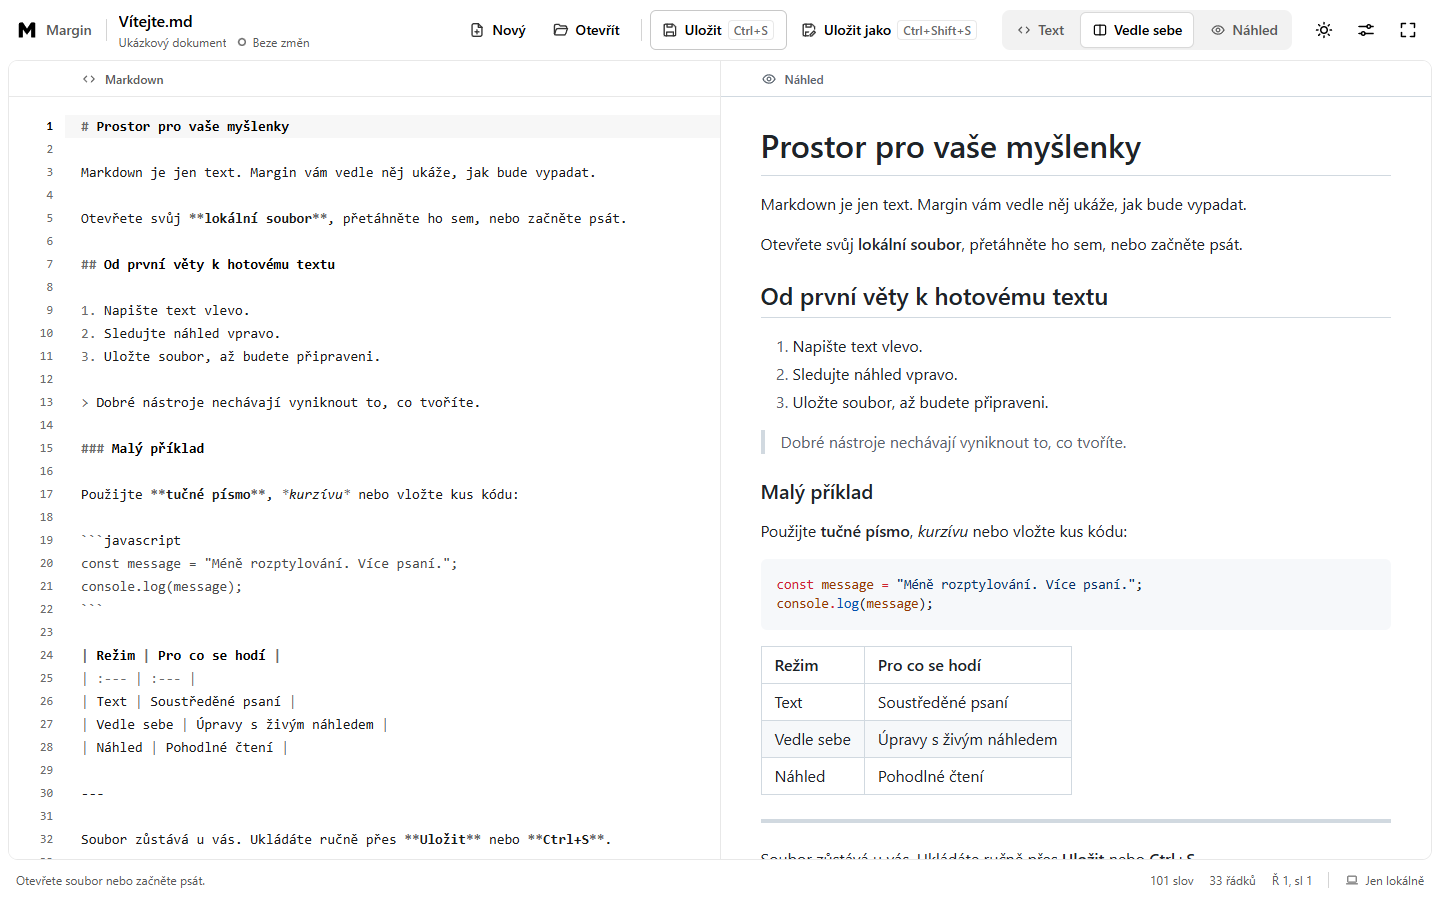
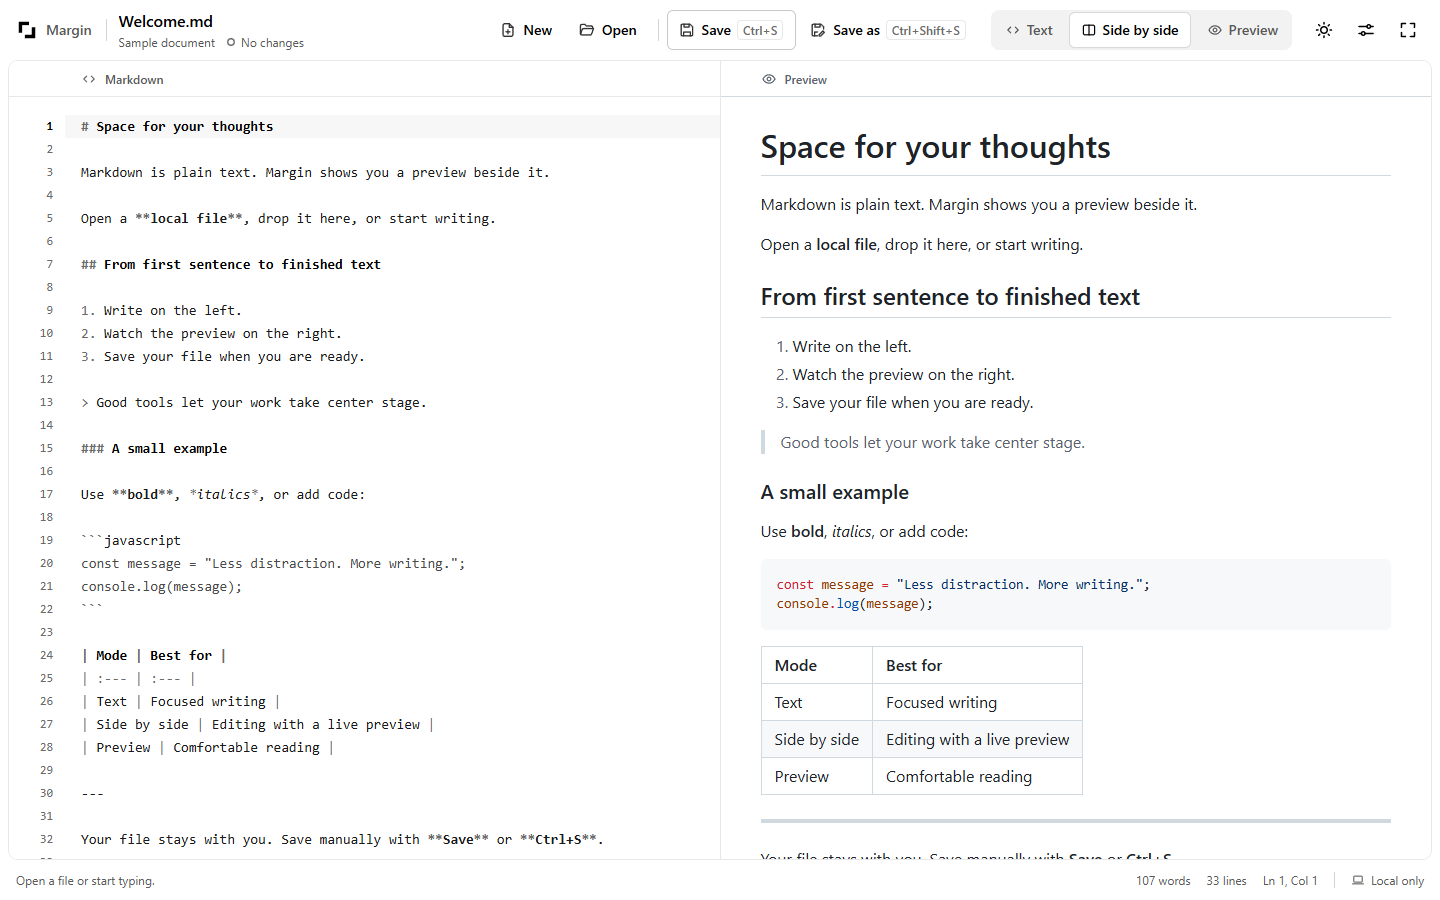
fix: speed up editor startup and preview updates

diff --git a/tests/preview.browser.test.ts b/tests/preview.browser.test.ts
@@ -1,0 +1,58 @@
+import assert from 'node:assert/strict';
+import test from 'node:test';
+import { resolve } from 'node:path';
+import { chromium } from 'playwright';
+
+test('preview preserves unchanged blocks and refreshes document-wide references', { timeout: 60000 }, async () => {
+  const extension = resolve('dist');
+  const context = await chromium.launchPersistentContext('', {
+    channel: 'chromium', headless: true, locale: 'en-US',
+    args: [`--disable-extensions-except=${extension}`, `--load-extension=${extension}`],
+    viewport: { width: 1440, height: 900 },
+  });
+  try {
+    const worker = context.serviceWorkers()[0] ?? await context.waitForEvent('serviceworker');
+    const page = await context.newPage();
+    const errors: string[] = [];
+    page.on('pageerror', (error) => errors.push(error.message));
+    page.on('console', (message) => { if (message.type() === 'error') errors.push(message.text()); });
+    await page.goto(`chrome-extension://${new URL(worker.url()).host}/index.html`);
+    const source = '# Stable\n\nChange me\n\n[Reference][target]\n\n'
+      + '> Quote\n>\n> - [ ] Nested task\n\n'
+      + '| A | B |\n| :- | -: |\n| 1 | 2 |\n\n'
+      + '```js\nconst value = 1;\n```\n\n[target]: https://example.com/first\n';
+    const editor = page.locator('.cm-content');
+    const preview = page.locator('#preview');
+    await editor.fill(source);
+    await page.waitForFunction(() => document.querySelector('#preview h1')?.textContent === 'Stable');
+    const stable = await preview.locator(':scope > h1, :scope > blockquote, :scope > table, :scope > pre').elementHandles();
+    assert.equal(stable.length, 4);
+    assert.equal(await preview.locator('input:disabled').count(), 1);
+    assert.equal(await preview.locator('td.align-right').innerText(), '2');
+    await editor.fill(source.replace('Change me', 'Changed paragraph'));
+    await page.waitForFunction(() => document.querySelector('#preview > p')?.textContent === 'Changed paragraph');
+    for (const node of stable) assert.equal(await node.evaluate((node) => node.parentElement?.id), 'preview');
+    assert.equal(await preview.locator('pre').getAttribute('tabindex'), '0');
+    assert.ok(await preview.locator('pre span[class]').count() > 0);
+
+    await editor.fill(source.replace('/first', '/second'));
+    await page.waitForFunction(() => document.querySelector('#preview a')?.getAttribute('href') === 'https://example.com/second');
+    for (const node of stable) assert.equal(await node.evaluate((node) => node.parentElement?.id), 'preview');
+
+    await editor.fill('Before\n\n' + source + '\n---\n\nAfter');
+    await page.waitForFunction(() => document.querySelector('#preview')?.lastElementChild?.textContent === 'After');
+    assert.deepEqual(await preview.locator(':scope > *').evaluateAll((nodes) => nodes.map((node) => node.tagName)),
+      ['P', 'H1', 'P', 'P', 'BLOCKQUOTE', 'TABLE', 'PRE', 'HR', 'P']);
+    await editor.fill('## Replacement\n\n1. One\n2. Two\n\n![offline](https://example.com/a.png)');
+    await page.waitForFunction(() => document.querySelector('#preview h2')?.textContent === 'Replacement');
+    assert.deepEqual(await preview.locator(':scope > *').evaluateAll((nodes) => nodes.map((node) => node.tagName)), ['H2', 'OL', 'P']);
+    assert.equal(await preview.locator('img, script, iframe').count(), 0);
+    await editor.fill('');
+    await page.waitForFunction(() => document.querySelector('#preview')?.childNodes.length === 0);
+    await editor.fill('# Recovered');
+    await page.waitForFunction(() => document.querySelector('#preview h1')?.textContent === 'Recovered');
+    assert.deepEqual(errors, []);
+  } finally {
+    await context.close();
+  }
+});

diff --git a/src/render.ts b/src/render.ts
@@ -4,7 +4,7 @@ import { classHighlighter, highlightCode } from '@lezer/highlight';
 import { parser as javascript } from '@lezer/javascript';
 import { parser as css } from '@lezer/css';
 import { parser as html } from '@lezer/html';
-import { t } from './i18n';
+import { getLocale, t, type Locale } from './i18n';
 
 const markdown = new MarkdownIt({ html: false, linkify: false, typographer: false });
 // shortcut: color at most 20,000 characters per render; use a worker for larger highlighted documents.
@@ -20,6 +20,9 @@ const codeParsers: ReadonlyMap<string, typeof javascript> = new Map([
 ]);
 
 interface RenderContext extends Env { highlightRemaining: number }
+// Cache only the displayed document, capped at 32 million HTML characters and released with the page.
+const MAX_CACHED_HTML_CHARS = 32 * 1024 * 1024;
+let previous: { target: HTMLElement; locale: Locale; blocks: string[] } | undefined;
 
 const plainFence = markdown.renderer.rules.fence!;
 markdown.renderer.rules.fence = (tokens, index, options, context, renderer) => {
@@ -69,9 +72,28 @@ for (const type of ['th_open', 'td_open']) {
   };
 }
 
-export function renderMarkdown(source: string): DocumentFragment {
+export function renderMarkdown(source: string, target: HTMLElement): void {
   const context: RenderContext = { highlightRemaining: MAX_HIGHLIGHT_CHARS };
-  const fragment = DOMPurify.sanitize(markdown.render(source, context), {
+  const tokens = markdown.parse(source, context);
+  const blocks: string[] = [];
+  let blockStart = 0;
+  let htmlChars = 0;
+  for (let index = 0; index < tokens.length; index++) {
+    if (tokens[index].level !== 0 || tokens[index].nesting > 0) continue;
+    const html = markdown.renderer.render(tokens.slice(blockStart, index + 1), markdown.options, context);
+    blocks.push(html);
+    htmlChars += html.length;
+    blockStart = index + 1;
+  }
+  const locale = getLocale();
+  let first = 0;
+  let oldEnd = target.children.length;
+  let newEnd = blocks.length;
+  if (previous?.target === target && previous.locale === locale && previous.blocks.length === oldEnd) {
+    while (first < oldEnd && first < newEnd && previous.blocks[first] === blocks[first]) first++;
+    while (oldEnd > first && newEnd > first && previous.blocks[oldEnd - 1] === blocks[newEnd - 1]) { oldEnd--; newEnd--; }
+  }
+  const fragment = DOMPurify.sanitize(blocks.slice(first, newEnd).join(''), {
     ALLOWED_TAGS: ['p', 'br', 'h1', 'h2', 'h3', 'h4', 'h5', 'h6', 'strong', 'em', 's',
       'a', 'code', 'pre', 'blockquote', 'ul', 'ol', 'li', 'hr', 'table', 'thead', 'tbody',
       'tr', 'th', 'td', 'span'],
@@ -94,5 +116,14 @@ export function renderMarkdown(source: string): DocumentFragment {
     text.prepend(checkbox, ' ');
   }
   for (const block of fragment.querySelectorAll<HTMLElement>('pre, table')) block.tabIndex = 0;
-  return fragment;
+  if (fragment.children.length !== newEnd - first) throw new Error('Unexpected Markdown block structure.');
+  for (const node of Array.from(fragment.childNodes)) if (node.nodeType !== Node.ELEMENT_NODE) node.remove();
+  if (oldEnd > first) {
+    const range = document.createRange();
+    range.setStartBefore(target.children[first]);
+    range.setEndAfter(target.children[oldEnd - 1]);
+    range.deleteContents();
+  }
+  target.insertBefore(fragment, target.children[first] ?? null);
+  previous = htmlChars <= MAX_CACHED_HTML_CHARS ? { target, locale, blocks } : undefined;
 }

diff --git a/tests/launcher.browser.test.ts b/tests/launcher.browser.test.ts
@@ -1,0 +1,60 @@
+import assert from 'node:assert/strict';
+import test from 'node:test';
+import { resolve } from 'node:path';
+import { readFile } from 'node:fs/promises';
+import { chromium } from 'playwright';
+
+test('launcher opens once, reuses the editor and preserves unsaved documents', { timeout: 60000 }, async () => {
+  const extension = resolve('dist');
+  const manifest = JSON.parse(await readFile(resolve(extension, 'manifest.json'), 'utf8')) as { action: { default_popup?: string } };
+  assert.equal(manifest.action.default_popup, 'launcher.html');
+  const context = await chromium.launchPersistentContext('', {
+    channel: 'chromium', headless: true, locale: 'en-US',
+    args: [`--disable-extensions-except=${extension}`, `--load-extension=${extension}`],
+  });
+  try {
+    const errors: string[] = [];
+    context.on('page', (page) => page.on('pageerror', (error) => errors.push(error.message)));
+    const worker = context.serviceWorkers()[0] ?? await context.waitForEvent('serviceworker');
+    const id = new URL(worker.url()).host;
+    const editorUrl = `chrome-extension://${id}/index.html`;
+    const firstLauncher = await context.newPage();
+    const firstOpened = context.waitForEvent('page');
+    await firstLauncher.goto(`chrome-extension://${id}/launcher.html`, { waitUntil: 'commit' }).catch((error: unknown) => {
+      if (!firstLauncher.isClosed()) throw error;
+    });
+    const existing = await firstOpened;
+    await existing.waitForURL(editorUrl);
+    await existing.locator('.cm-content').fill('# Keep my unsaved document');
+    if (!firstLauncher.isClosed()) await firstLauncher.close();
+    for (let click = 0; click < 2; click++) {
+      const launcher = await context.newPage();
+      await launcher.goto(`chrome-extension://${id}/launcher.html`, { waitUntil: 'commit' }).catch((error: unknown) => {
+        if (!launcher.isClosed()) throw error;
+      });
+      await existing.waitForFunction(async () => (await chrome.tabs.getCurrent())?.active === true, undefined, { polling: 50 });
+      assert.equal(context.pages().filter((page) => page.url() === editorUrl).length, 1);
+      assert.equal(await existing.locator('.cm-content').innerText(), '# Keep my unsaved document');
+      assert.equal(await existing.locator('#dirty-state').getAttribute('data-dirty'), 'true');
+      if (!launcher.isClosed()) await launcher.close();
+    }
+
+    const fallback = await context.newPage();
+    await fallback.addInitScript(() => {
+      chrome.runtime.getContexts = () => Promise.reject(new Error('Injected launch failure'));
+    });
+    await fallback.goto(`chrome-extension://${id}/launcher.html`);
+    const link = fallback.getByRole('link', { name: 'Margin', exact: true });
+    await fallback.waitForFunction(() => document.activeElement === document.querySelector('a'));
+    const opened = context.waitForEvent('page');
+    await link.click();
+    const editor = await opened;
+    await editor.waitForURL(editorUrl);
+    await editor.locator('#preview h1').waitFor();
+    assert.deepEqual(errors, []);
+    await existing.locator('.cm-content').press('Control+z');
+    assert.equal(await existing.locator('#dirty-state').getAttribute('data-dirty'), 'false');
+  } finally {
+    await context.close();
+  }
+});

diff --git a/launcher.html b/launcher.html
@@ -1,0 +1,22 @@
+<!doctype html>
+<html lang="en">
+  <head>
+    <meta charset="UTF-8" />
+    <meta name="color-scheme" content="light dark" />
+    <title>Margin</title>
+    <style>
+      body { margin: 0; padding: 8px; color: #202020; background: #fff; font: 14px system-ui, sans-serif; }
+      a { display: flex; align-items: center; gap: 10px; min-width: 132px; min-height: 40px; padding-inline: 12px; border-radius: 6px; color: inherit; text-decoration: none; }
+      a:hover { background: #f2f2f2; }
+      a:focus-visible { outline: 2px solid currentColor; outline-offset: -2px; }
+      @media (prefers-color-scheme: dark) {
+        body { color: #f2f2f2; background: #202020; }
+        a:hover { background: #303030; }
+      }
+    </style>
+  </head>
+  <body>
+    <a href="./index.html" target="_blank" rel="noopener"><img src="/icons/32.png" width="24" height="24" alt="" />Margin <span aria-hidden="true">↗</span></a>
+    <script type="module" src="/src/launcher.ts"></script>
+  </body>
+</html>

diff --git a/src/launcher.ts b/src/launcher.ts
@@ -1,0 +1,21 @@
+async function openEditor(): Promise<void> {
+  const url = chrome.runtime.getURL('index.html');
+  const currentWindow = await chrome.windows.getCurrent();
+  const contexts = (await chrome.runtime.getContexts({ contextTypes: ['TAB'], incognito: currentWindow.incognito }))
+    .filter((context) => context.tabId >= 0 && context.windowId >= 0 && context.documentUrl?.split(/[?#]/, 1)[0] === url);
+  const editor = contexts.find((context) => context.windowId === currentWindow.id) ?? contexts[0];
+  if (editor) {
+    await chrome.tabs.update(editor.tabId, { active: true });
+    await chrome.windows.update(editor.windowId, { focused: true });
+  } else {
+    await chrome.tabs.create({ url });
+  }
+}
+
+void openEditor().then(
+  () => window.close(),
+  (error: unknown) => {
+    console.error('Could not open Margin', error);
+    document.querySelector('a')?.focus();
+  },
+);

diff --git a/src/shell.ts b/src/shell.ts
@@ -13,7 +13,7 @@ const icons = {
 };
 
 const mark = (size: number, className: string): string =>
-  `<svg class="${className}" viewBox="0 0 32 32" width="${size}" height="${size}" aria-hidden="true"><path fill="currentColor" d="M4 27V7a2 2 0 0 1 2-2h4l6 9 6-9h4a2 2 0 0 1 2 2v20h-6V15l-6 8-6-8v12z"/></svg>`;
+  `<svg class="${className}" viewBox="0 0 32 32" width="${size}" height="${size}" aria-hidden="true"><path fill="currentColor" d="M4 4h15v5H9v11H4zM28 28H13v-5h10V12h5z"/></svg>`;
 
 export const shell = String.raw`
 <header class="toolbar" aria-label="Hlavní panel nástrojů" data-i18n-aria-label="Hlavní panel nástrojů">

diff --git a/src/background.ts b/src/background.ts
@@ -1,9 +1,5 @@
 import { getLocalMarkdownUrl } from './files';
 
-chrome.action.onClicked.addListener(() => {
-  void chrome.tabs.create({ url: chrome.runtime.getURL('index.html') });
-});
-
 chrome.runtime.onMessage.addListener((message: unknown, sender) => {
   if (message !== 'open-local-markdown' || sender.id !== chrome.runtime.id
     || sender.frameId !== 0 || sender.tab?.id === undefined || !sender.url) return;

diff --git a/src/main.ts b/src/main.ts
@@ -150,7 +150,7 @@ function updatePreview(): void {
   element('word-count').textContent = countText(words, '{count} slovo', '{count} slova', '{count} slov');
   if (mode === 'source') return;
   try {
-    preview.replaceChildren(renderMarkdown(source));
+    renderMarkdown(source, preview);
   } catch {
     say('Náhled nelze vytvořit. Text zůstává v editoru.', true);
     return;

diff --git a/vite.config.ts b/vite.config.ts
@@ -3,9 +3,11 @@ import { defineConfig } from 'vite';
 export default defineConfig({
   base: './',
   build: {
+    modulePreload: { polyfill: false },
     rollupOptions: {
       input: {
         editor: 'index.html',
+        launcher: 'launcher.html',
         background: 'src/background.ts',
         content: 'src/content.ts',
       },

diff --git a/QA.md b/QA.md
@@ -1,5 +1,36 @@
 # Validation
 
+## Pinned action startup | 1.3.1
+
+The toolbar action now runs a small launcher directly instead of dispatching its opening through the background service worker. It activates an existing editor without navigating or rebuilding its document, preferring the current window and matching its private-browsing mode. It creates a new editor only when none is open. Successful activation closes the launcher; failure keeps a native link available. No permission, keepalive, polling or document persistence was added. The worker retains the existing validated local-file message handler.
+
+`npm test` passed all 19 tests. The complete local browser command passed all four scenarios, covering editor/file-save regressions, language/preferences, the launcher and incremental preview updates. TypeScript and the production build passed; the production dependency audit reported zero vulnerabilities. The launcher scenario checks first opening, repeated reuse with one editor tab, unchanged unsaved text, undo, and the real fallback link after an injected context-lookup failure. The regular launcher document is used in this test; it does not establish native popup lifecycle or private-window behavior.
+
+Claude Opus reviewed the initial launcher and found no blocking defect. Its follow-up review was unavailable after quota exhaustion. Astra reviewed the final context-selection and success-close route and found no confirmed blocking defect; its review did not execute browser tests. The primary agent verified the browser API calls and preserved the file-safety and CSP boundaries. Chrome's [runtime API](https://developer.chrome.com/docs/extensions/reference/api/runtime#method-getContexts) provides the extension's own contexts from Chrome 116; Margin retains its Chrome 120 minimum.
+
+An isolated Chromium measurement timed real Chrome API work after launcher document initialization. First creation took 65.8 ms; reuse took 37.1, 38.1 and 35.9 ms, while the editor-tab count stayed at one. These figures exclude toolbar dispatch, popup creation and HTML loading. Earlier end-to-end native-action probes varied substantially and some timed out, so they do not support a reliable before/after latency claim. Physical Brave latency, native popup behavior and private-window behavior remain unverified.
+
+### Preview rendering and original icon
+
+Editing now preserves unchanged top-level preview blocks instead of rebuilding the entire DOM. Full-document Markdown parsing and rendering remain, preserving reference resolution and the shared highlighting budget. Only the changed range is sanitized and inserted. Previously sanitized blocks remain unchanged. The one-document in-memory HTML comparison cache is capped at 32 × 1,024 × 1,024 characters and rebuilt on language changes; it is not persisted.
+
+The new real-browser regression verifies DOM identity for unchanged headings, quotes, tables and code, changed reference definitions, insertion/deletion, an empty document and recovery. Existing tests also cover localized task labels, the aggregate code budget, blocked active content, zero automatic document HTTP(S) requests and genuine OPFS save bytes. Astra independently checked the renderer and compared 13 token-group fixtures with markdown-it's full output without finding a confirmed defect. The primary agent executed the DOM regressions.
+
+An initial paired test used real synthetic 100 KiB and 1 MiB files in isolated Chromium at 1440 × 900. Browser timings started at file-input change or typing and ended two frames after preview mutation, including the 120 ms typing debounce. The 100 KiB edit changed from 386.1 to 176.1 ms; the 1 MiB edit changed from 2,686.8 to 523.4 ms. Full 1 MiB opening remained around 2.7 seconds. These local observations do not establish a universal speedup; large single-block documents still require replacing their whole block.
+
+The user-preferred opposing corner-bracket icon replaces the M, with stronger vector geometry and new 16/32/48/128 px exports. Browser PNG decoding verified each dimension, visible pixels, transparent background pixels and transparent corners. Fresh light/dark screenshots at 1440 × 900 and 390 × 844 were inspected; all four axe checks reported zero violations and no outer horizontal overflow. The final main JavaScript is 643,316 bytes, gzip 225,684 bytes using Node defaults, close to 1.3.0's 643,285/225,681 bytes. One local load measured 362.5 ms, LCP 584 ms and CLS 0. Field INP, physical mobile devices and worst-case 5 MiB latency remain unmeasured.
+
+A second comparison loaded the extracted 1.3.0 release and final build in separate isolated Chromium sessions, with three runs for each file size. Medians are below. Host load varied substantially, so these support the reduced DOM work without establishing a guaranteed speed ratio.
+
+| Check | 1.3.0 | 1.3.1 |
+| :--- | ---: | ---: |
+| 100 KiB open and preview | 575.1 ms | 431 ms |
+| 100 KiB edit and preview | 541.5 ms | 168.3 ms |
+| 1 MiB open and preview | 3,796.9 ms | 2,852 ms |
+| 1 MiB edit and preview | 4,709.1 ms | 605.3 ms |
+
[1 lines of base64/hex data omitted]
+
 ## Language, editor profiles and icon | 1.3.0
 
 Checked on 1 November 2026 on Windows. `npm test` passed 19 tests. `npm run test:browser` passed TypeScript, the production build and both loaded-extension scenarios. `npm audit --omit=dev` reported zero vulnerabilities. No runtime dependency or permission was added.

diff --git a/README.md b/README.md
@@ -3,7 +3,7 @@
 A local Markdown editor for Chrome. Write the source, see a live preview, and save the file on your computer.
 
 [![Checks](https://github.com/Majkey25/margin-md/actions/workflows/ci.yml/badge.svg)](https://github.com/Majkey25/margin-md/actions/workflows/ci.yml)
-[![Stable release](https://img.shields.io/badge/release-v1.3.0-black?style=flat-square&logo=github&logoColor=white)](https://github.com/Majkey25/margin-md/releases/latest)
+[![Stable release](https://img.shields.io/badge/release-v1.3.1-black?style=flat-square&logo=github&logoColor=white)](https://github.com/Majkey25/margin-md/releases/latest)
 ![Chrome Manifest V3](https://img.shields.io/badge/Chrome-Manifest_V3-black?style=flat-square&logo=googlechrome&logoColor=white)
 ![TypeScript](https://img.shields.io/badge/TypeScript-strict-black?style=flat-square&logo=typescript&logoColor=white)
 ![Local files](https://img.shields.io/badge/files-local_only-black?style=flat-square)
@@ -19,7 +19,9 @@ A local Markdown editor for Chrome. Write the source, see a live preview, and sa
 3. Click **Load unpacked** and select the extracted folder containing `manifest.json`.
 4. Pin Margin and click its toolbar icon.
 
-No build tools are needed for the release ZIP. The release also includes `SHA256SUMS.txt` for verifying the download. This repository is private, so GitHub downloads require repository access.
+The icon returns to an existing editor without reloading its document. It prefers an editor in the current window and keeps private and normal windows separate. If no editor is open, it opens a new tab. The launch path runs independently of the background service worker; it adds no keepalive or polling.
+
+No build tools are needed for the release ZIP. The release also includes `SHA256SUMS.txt` for verifying the download.
 
 Chrome desktop is the supported installation target. The unpacked release also works in Brave. Margin is not published in the Chrome Web Store.
 

diff --git a/DESIGN.md b/DESIGN.md
@@ -1,4 +1,4 @@
-# Margin design (1.3.0)
+# Margin design (1.3.1)
 
 A precise writing instrument. The filename is the title, the document sits on its own sheet inside a quiet window frame, and the chrome only holds what you act on.
 
@@ -51,7 +51,7 @@ Short phone windows (≤ 520 px tall) drop controls to 40 px so the sheet keeps 
 
 ## Signature
 
-One mark: a geometric M with a folded center and rounded outer shoulders on a transparent background (`public/icon.svg`, PNGs keep alpha). A white keyline keeps the browser icon legible on dark toolbars. Toolbar and drop marks share the geometry and use `--mark-ink`.
+One mark: the original two corner brackets, with stronger strokes and clean vector geometry on a transparent background (`public/icon.svg`, PNGs keep alpha). A white keyline keeps the browser icon legible on dark toolbars. Toolbar and drop marks share the geometry and use `--mark-ink`.
 
 ## Token grammar
 
